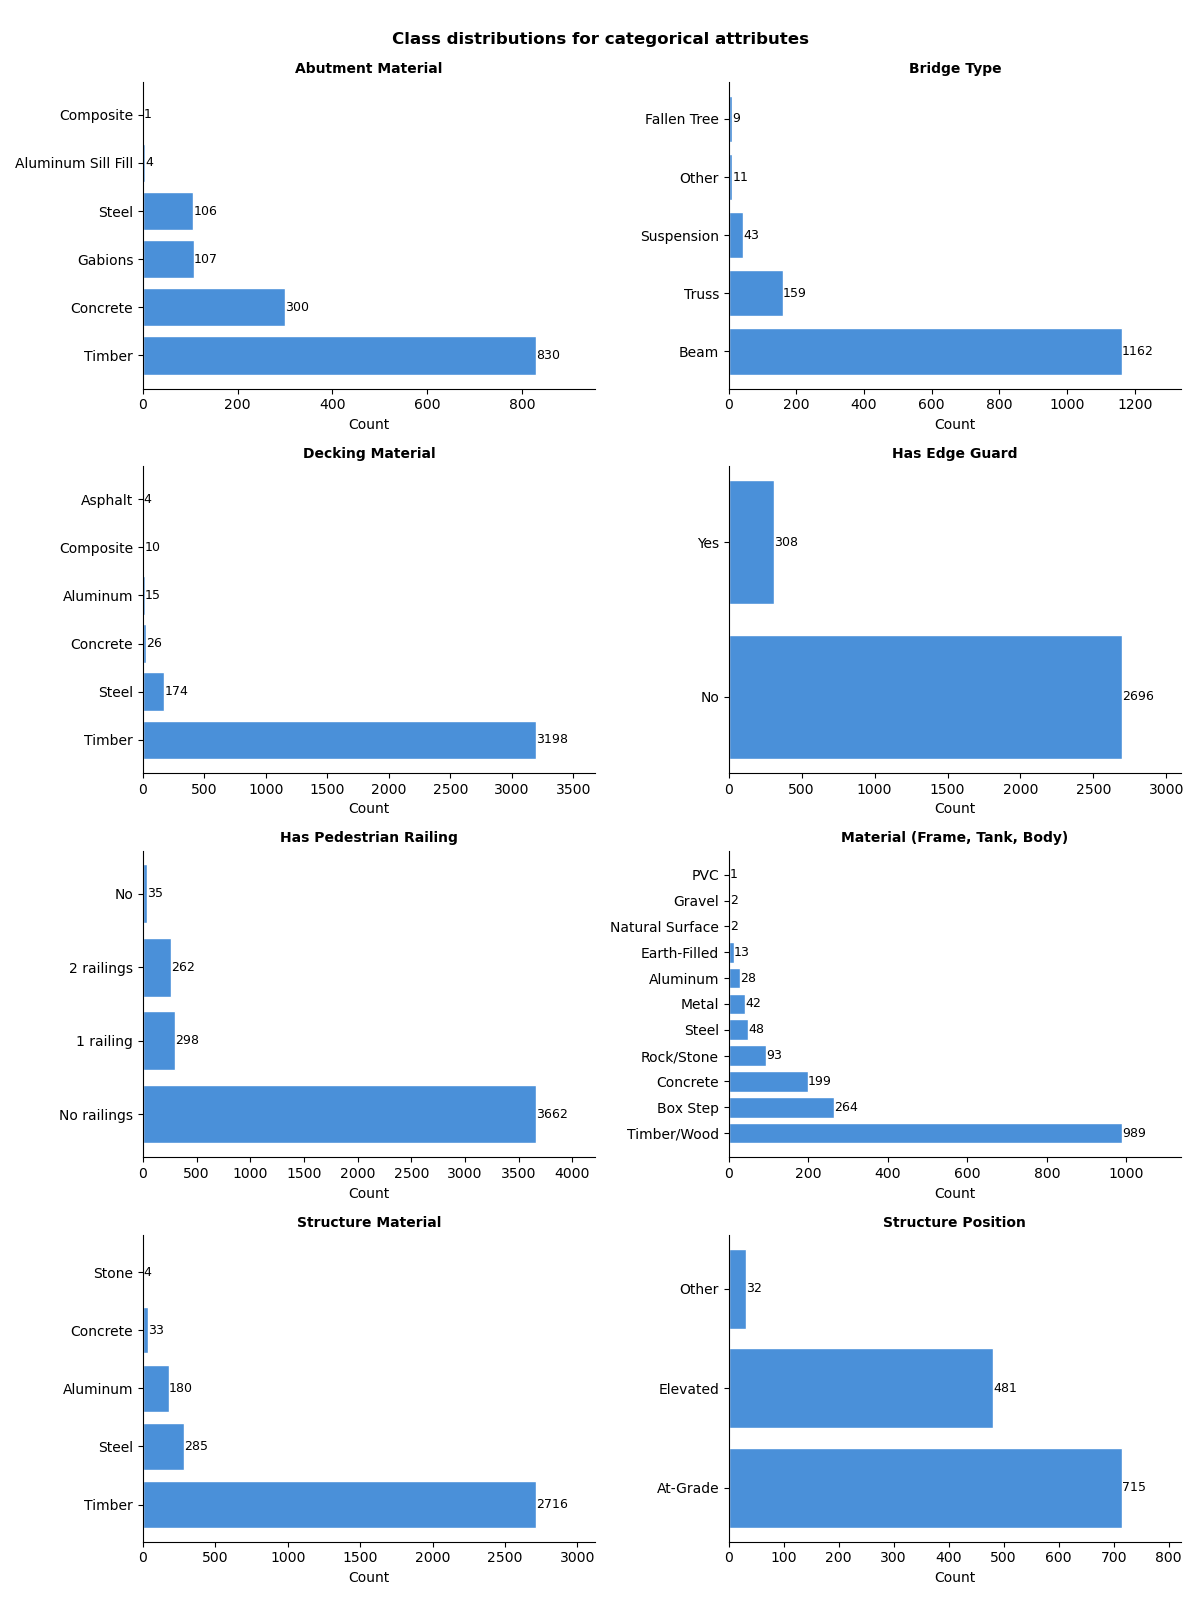
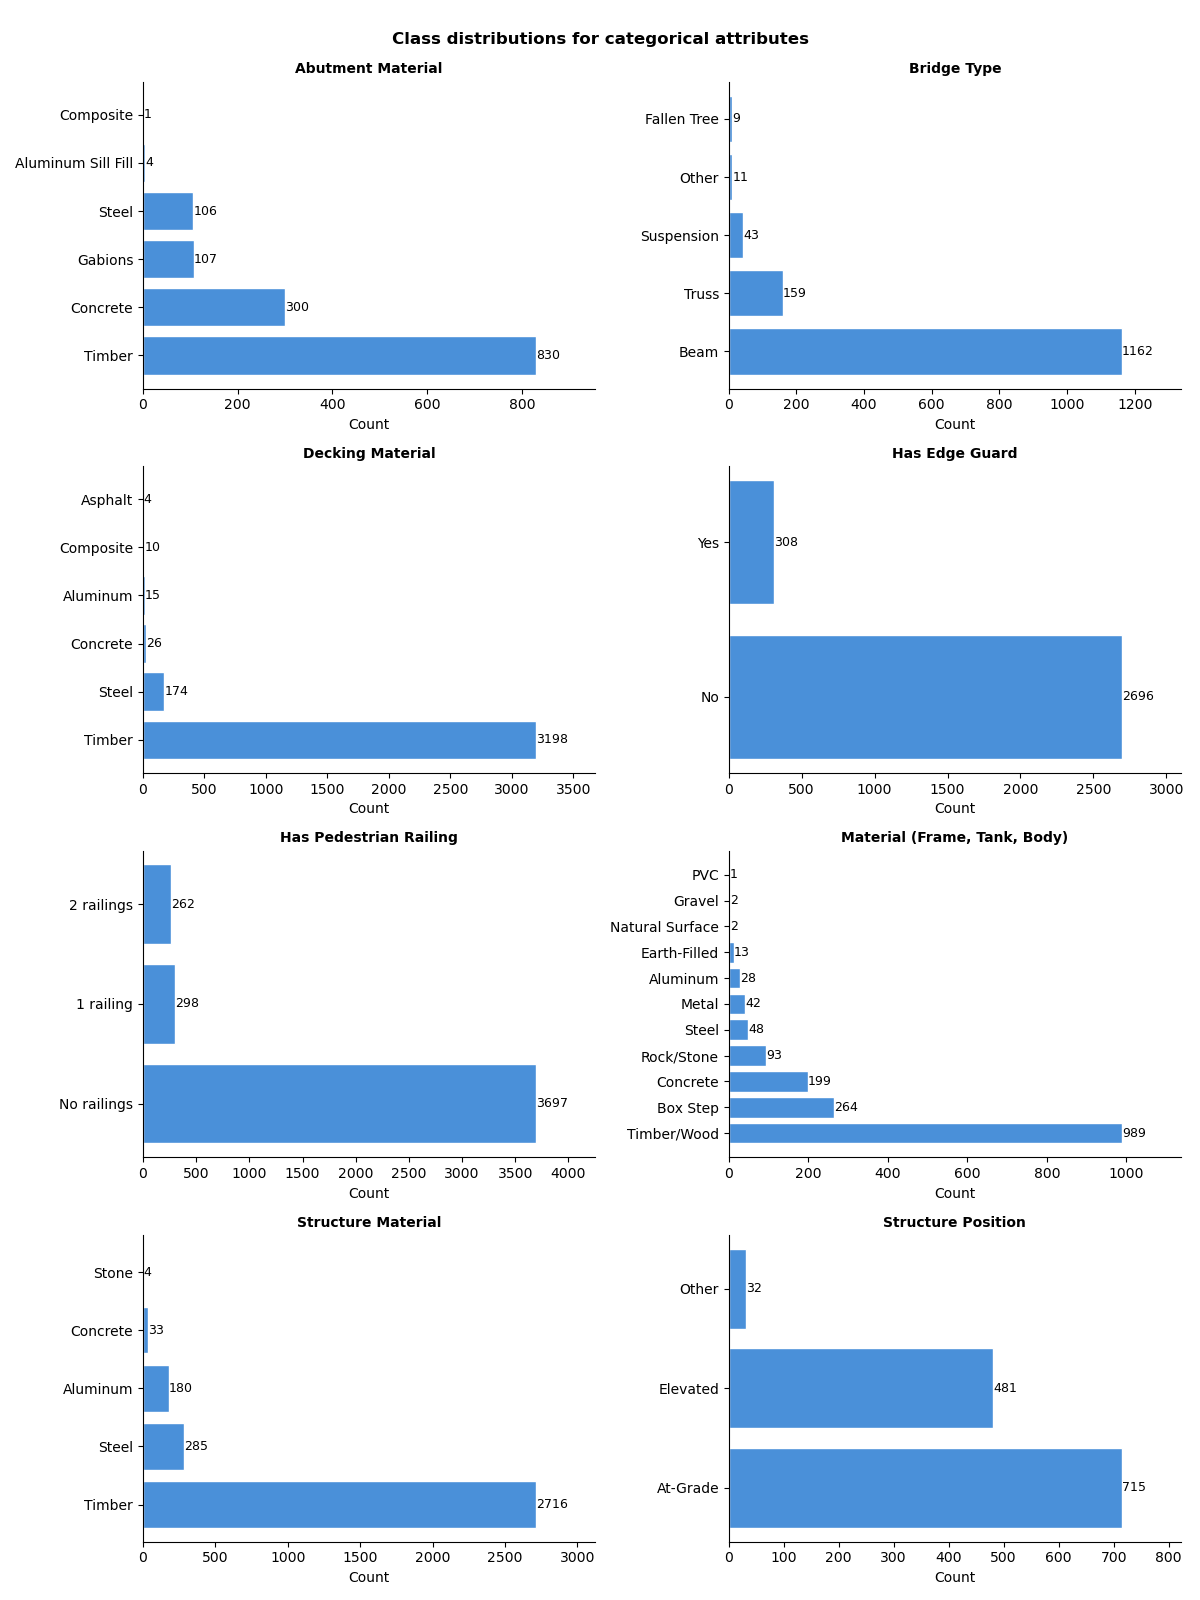
fixed categories distribution plot

diff --git a/reports/Image_analysis_of_park_infrastructure_report.html b/reports/Image_analysis_of_park_infrastructure_report.html
@@ -161,7 +161,7 @@ ul.task-list li input[type="checkbox"] {
 Table&nbsp;1: Summary of non-null counts, data types, and unique values for the attribute dataset.
 </figcaption>
 <div aria-describedby="tbl-data-summary-caption-0ceaefa1-69ba-4598-a22c-09a6ac19f8ca">
-<div class="cell-output cell-output-display" data-execution_count="1">
+<div class="cell-output cell-output-display" data-execution_count="5">
 <div>
 
 
@@ -360,7 +360,7 @@ Figure&nbsp;1: Sample images from the dataset
 Table&nbsp;2: Unique values for categorical attributes
 </figcaption>
 <div aria-describedby="tbl-unique-vals-caption-0ceaefa1-69ba-4598-a22c-09a6ac19f8ca">
-<div class="cell-output cell-output-display" data-execution_count="3">
+<div class="cell-output cell-output-display" data-execution_count="7">
 <div>
 
 